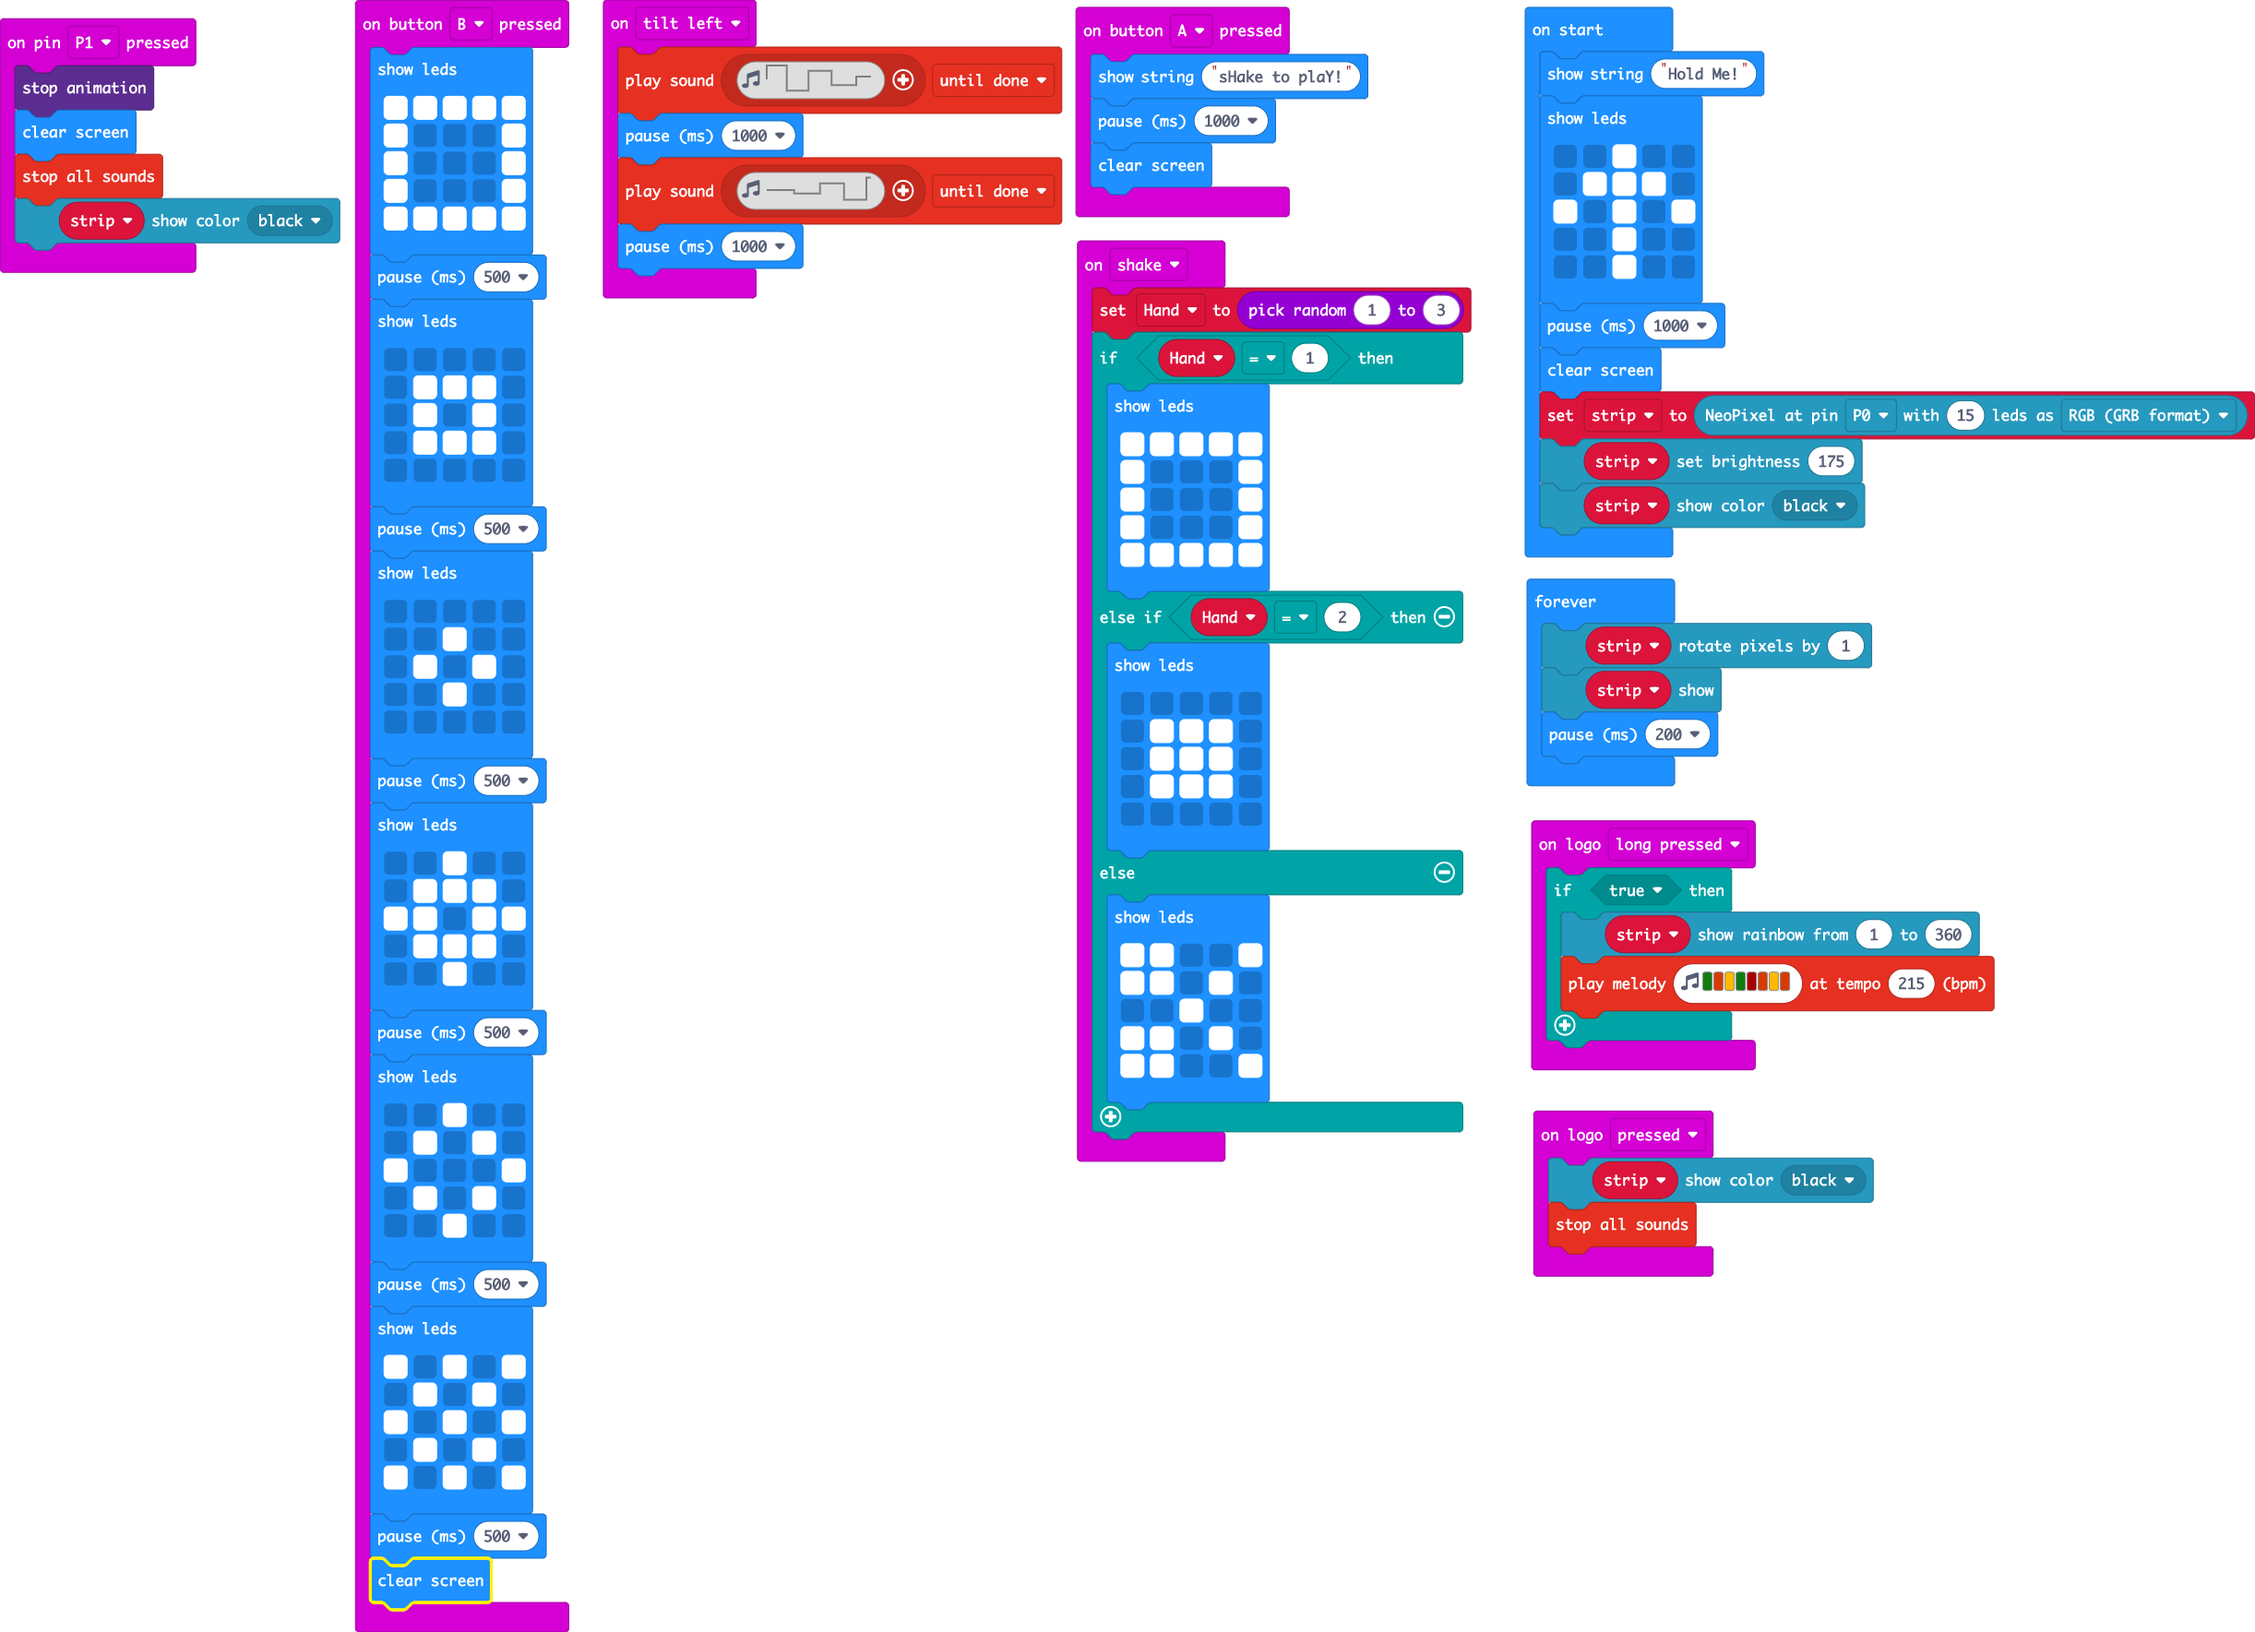
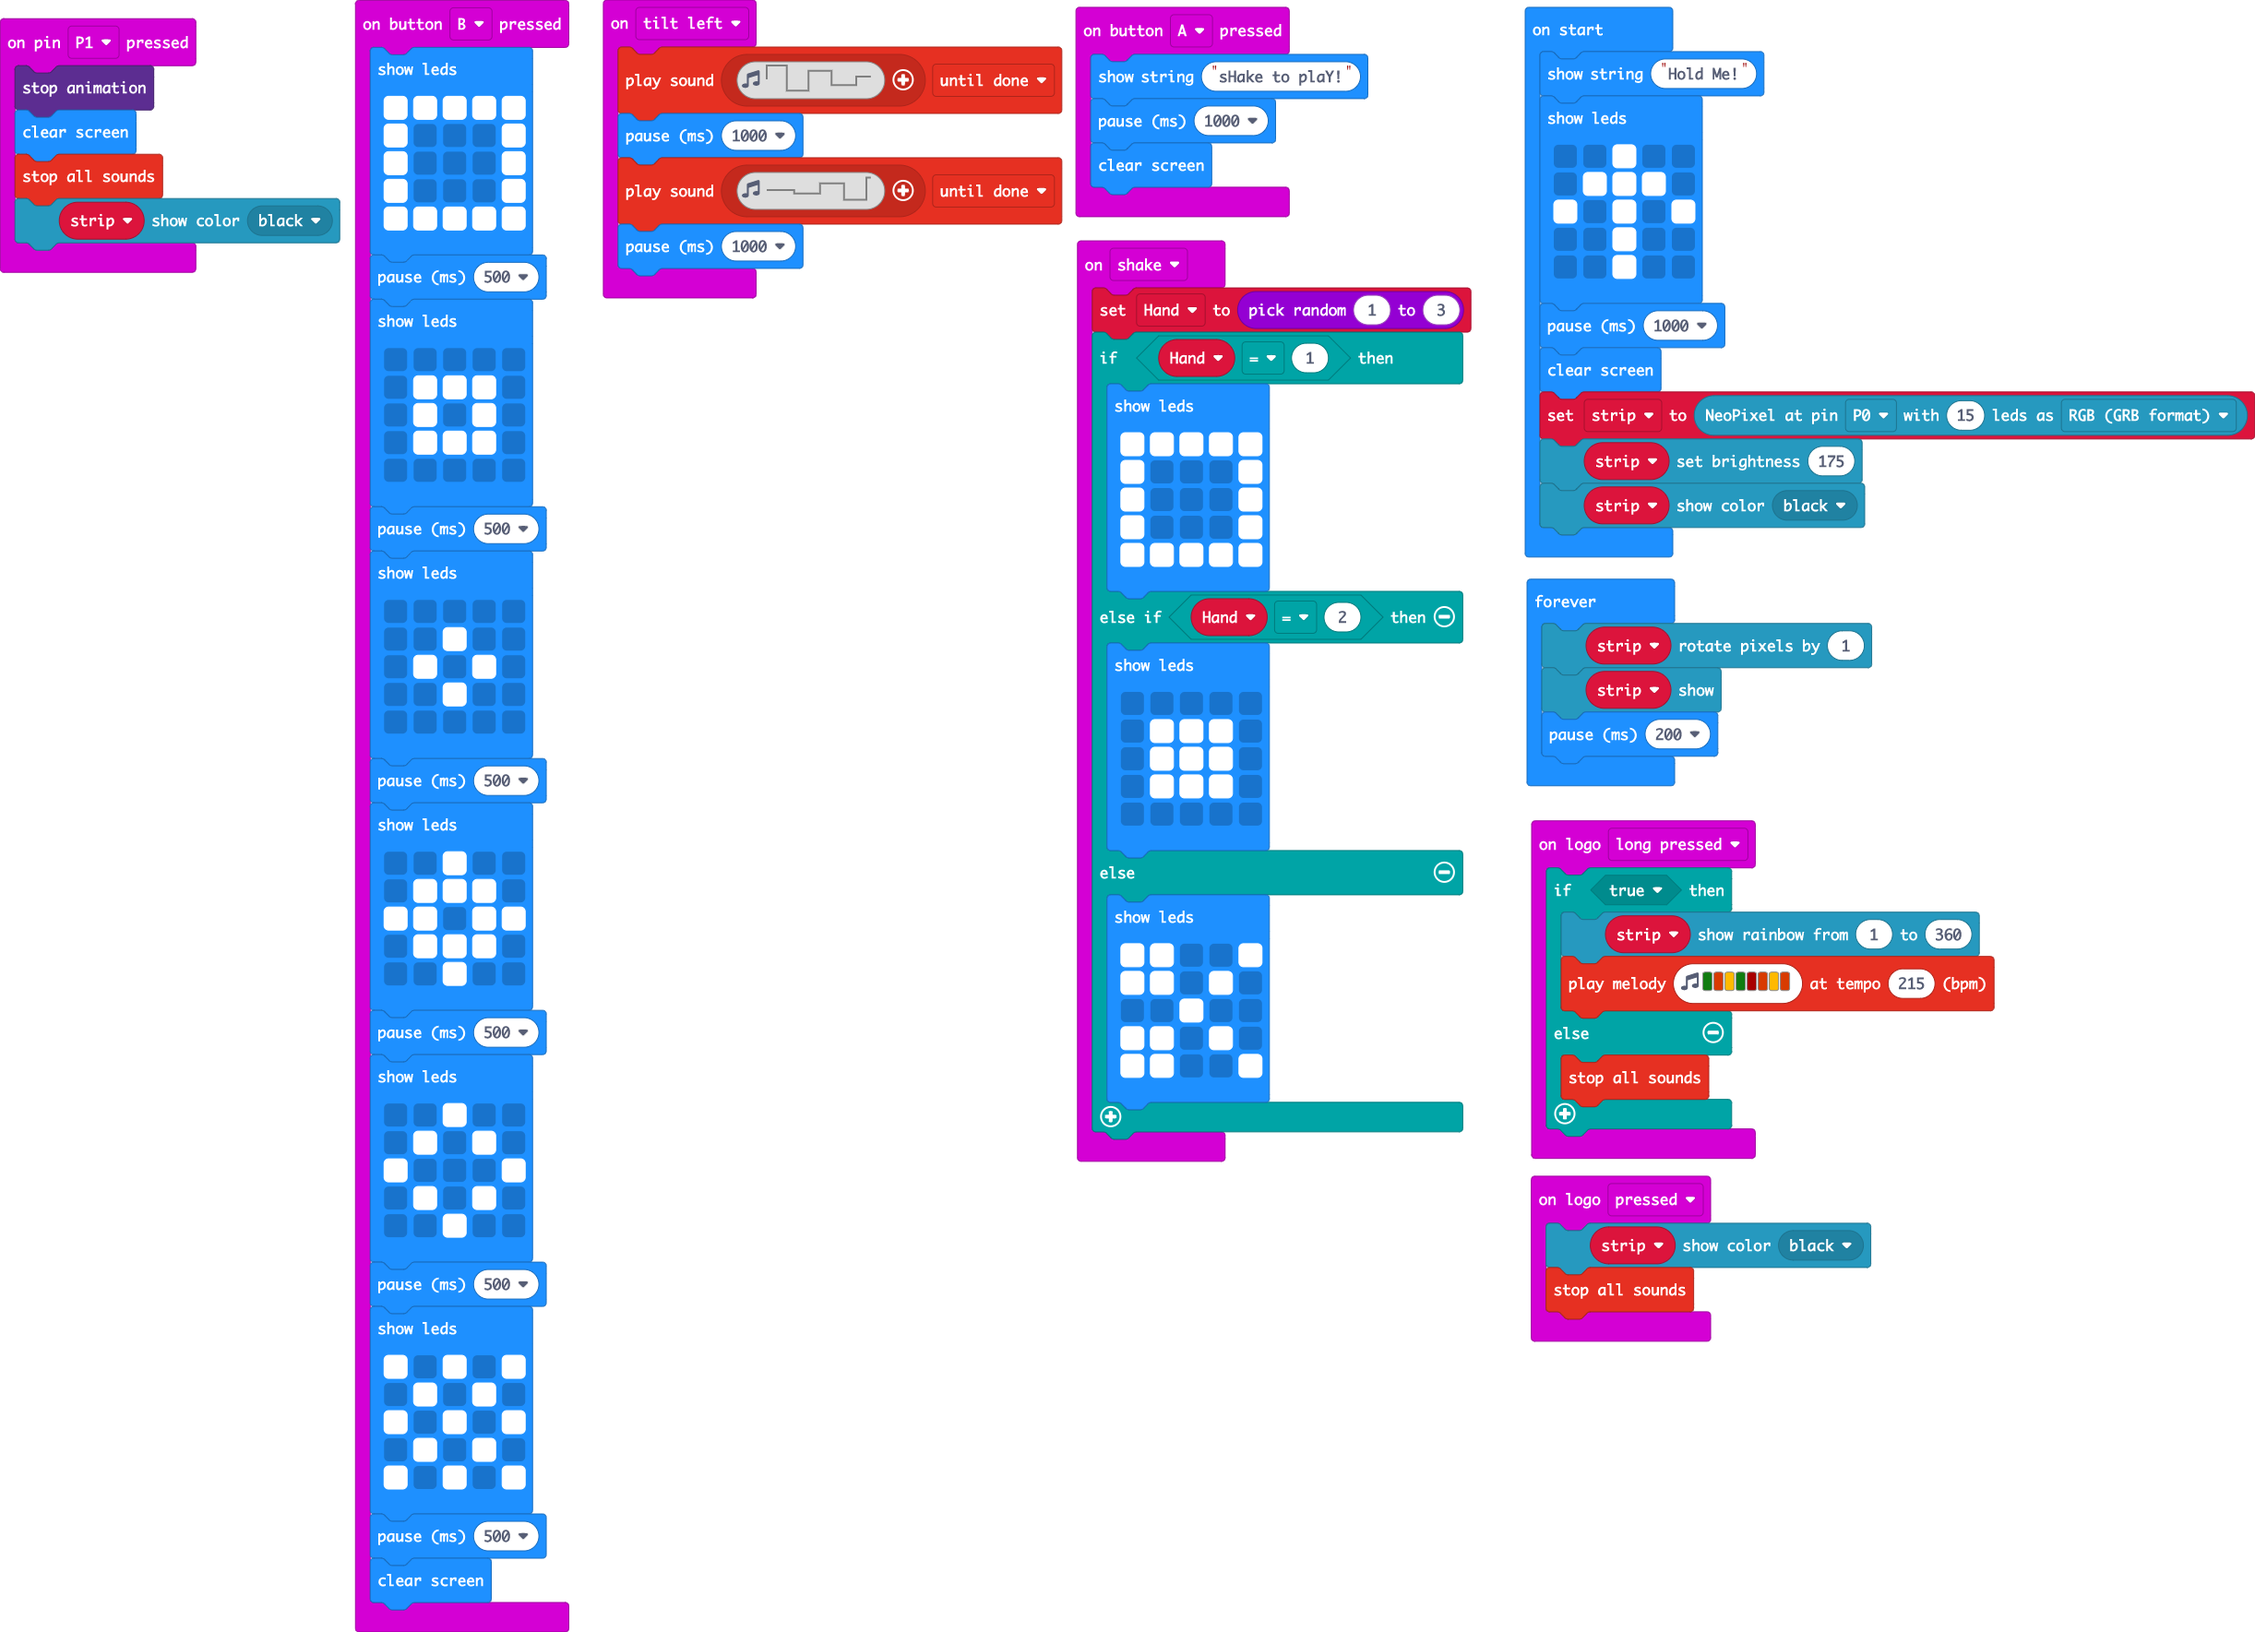
Update main.blocks, main.ts

Changed region(s): [[0.653, 0.6218, 0.8396, 0.8395]]

diff --git a/main.ts b/main.ts
@@ -2,6 +2,8 @@ input.onLogoEvent(TouchButtonEvent.LongPressed, function () {
     if (true) {
         strip.showRainbow(1, 360)
         music.playMelody("G B A G C5 B A B ", 215)
+    } else {
+        music.stopAllSounds()
     }
 })
 input.onButtonPressed(Button.A, function () {
